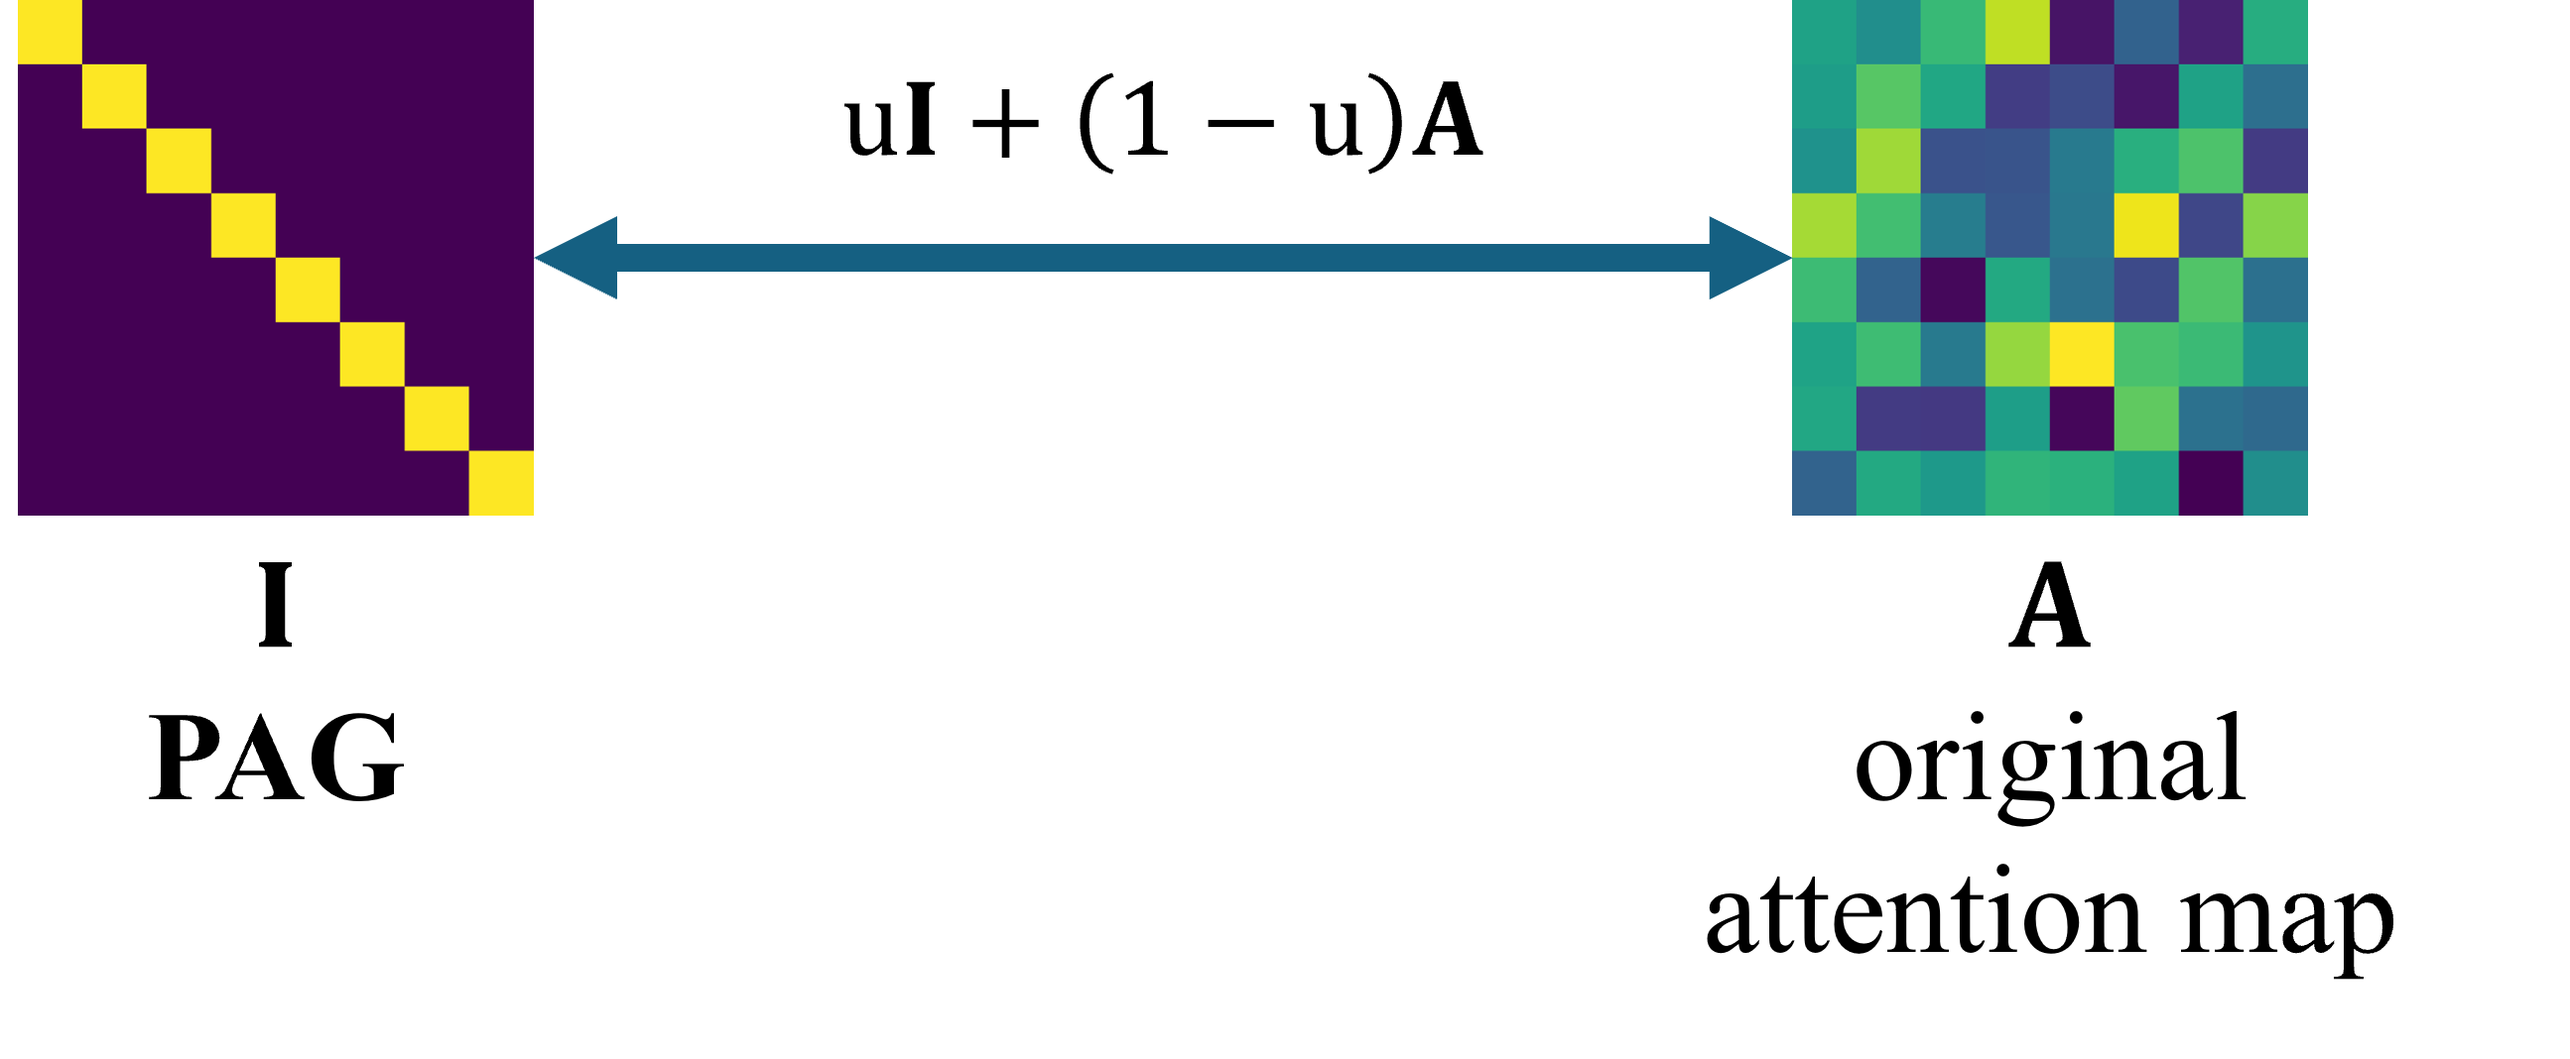
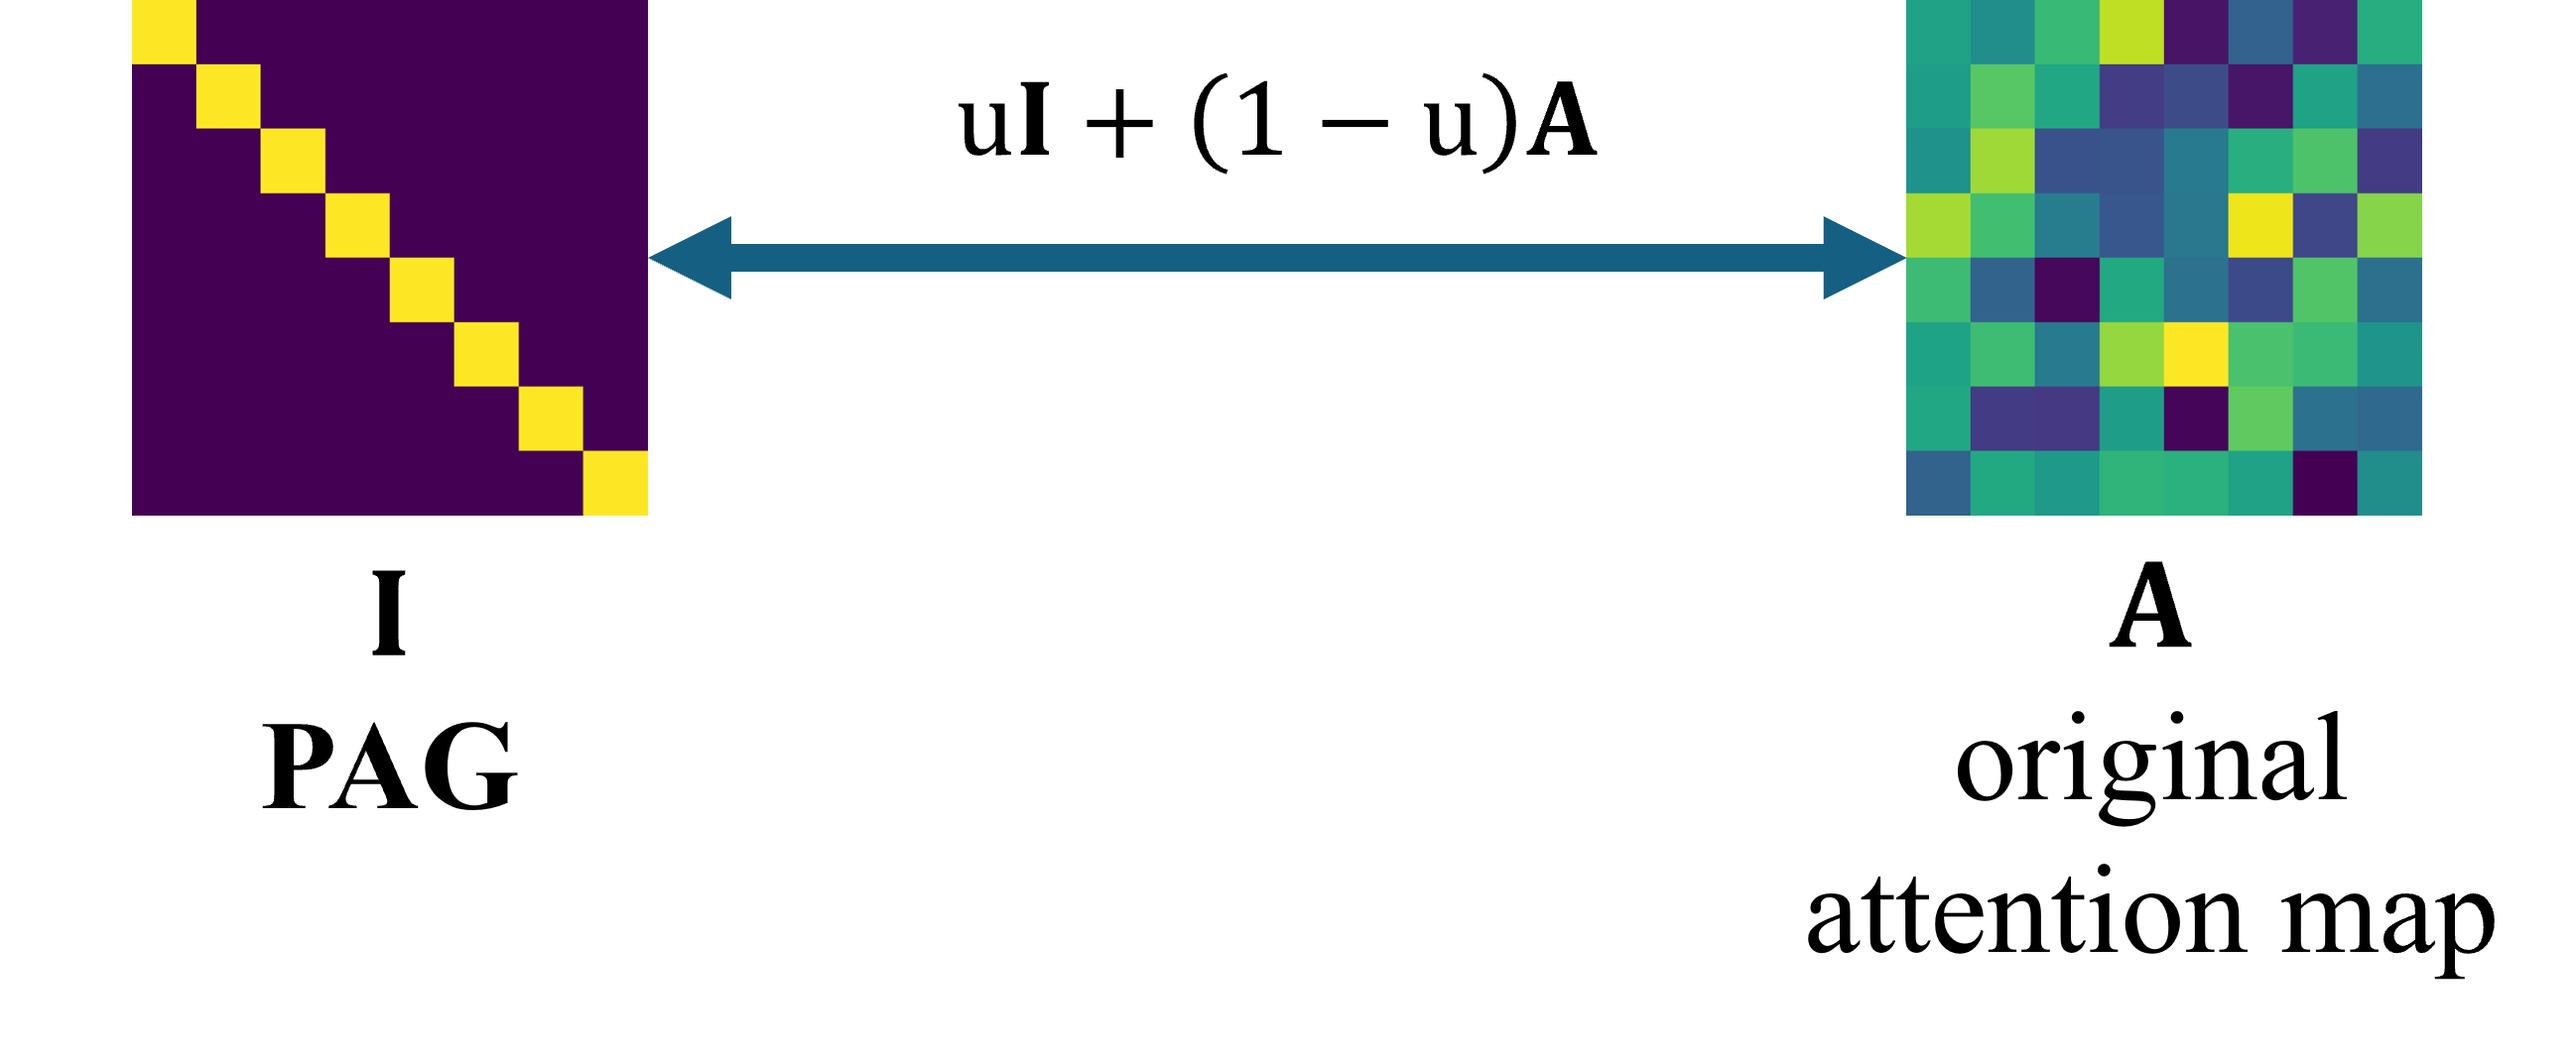
[Fix] interpol img

diff --git a/index.html b/index.html
@@ -300,7 +300,7 @@
       <div class="column is-full-width">
         <h2 class="title is-3 has-text-centered">Interpolation</h2>
 
-        <img src="img/interpol_attn.png" style="width: 70%; display: block; margin: 0 auto;">
+        <img src="img/interpol_attn.png" style="width: 25%; display: block; margin: 0 auto;">
         <img src="img/interpolation.jpg" style="width: 70%; display: block; margin: 1.5rem auto 0;">
 
         <div class="content has-text-justified" style="margin-top: 1rem;">
